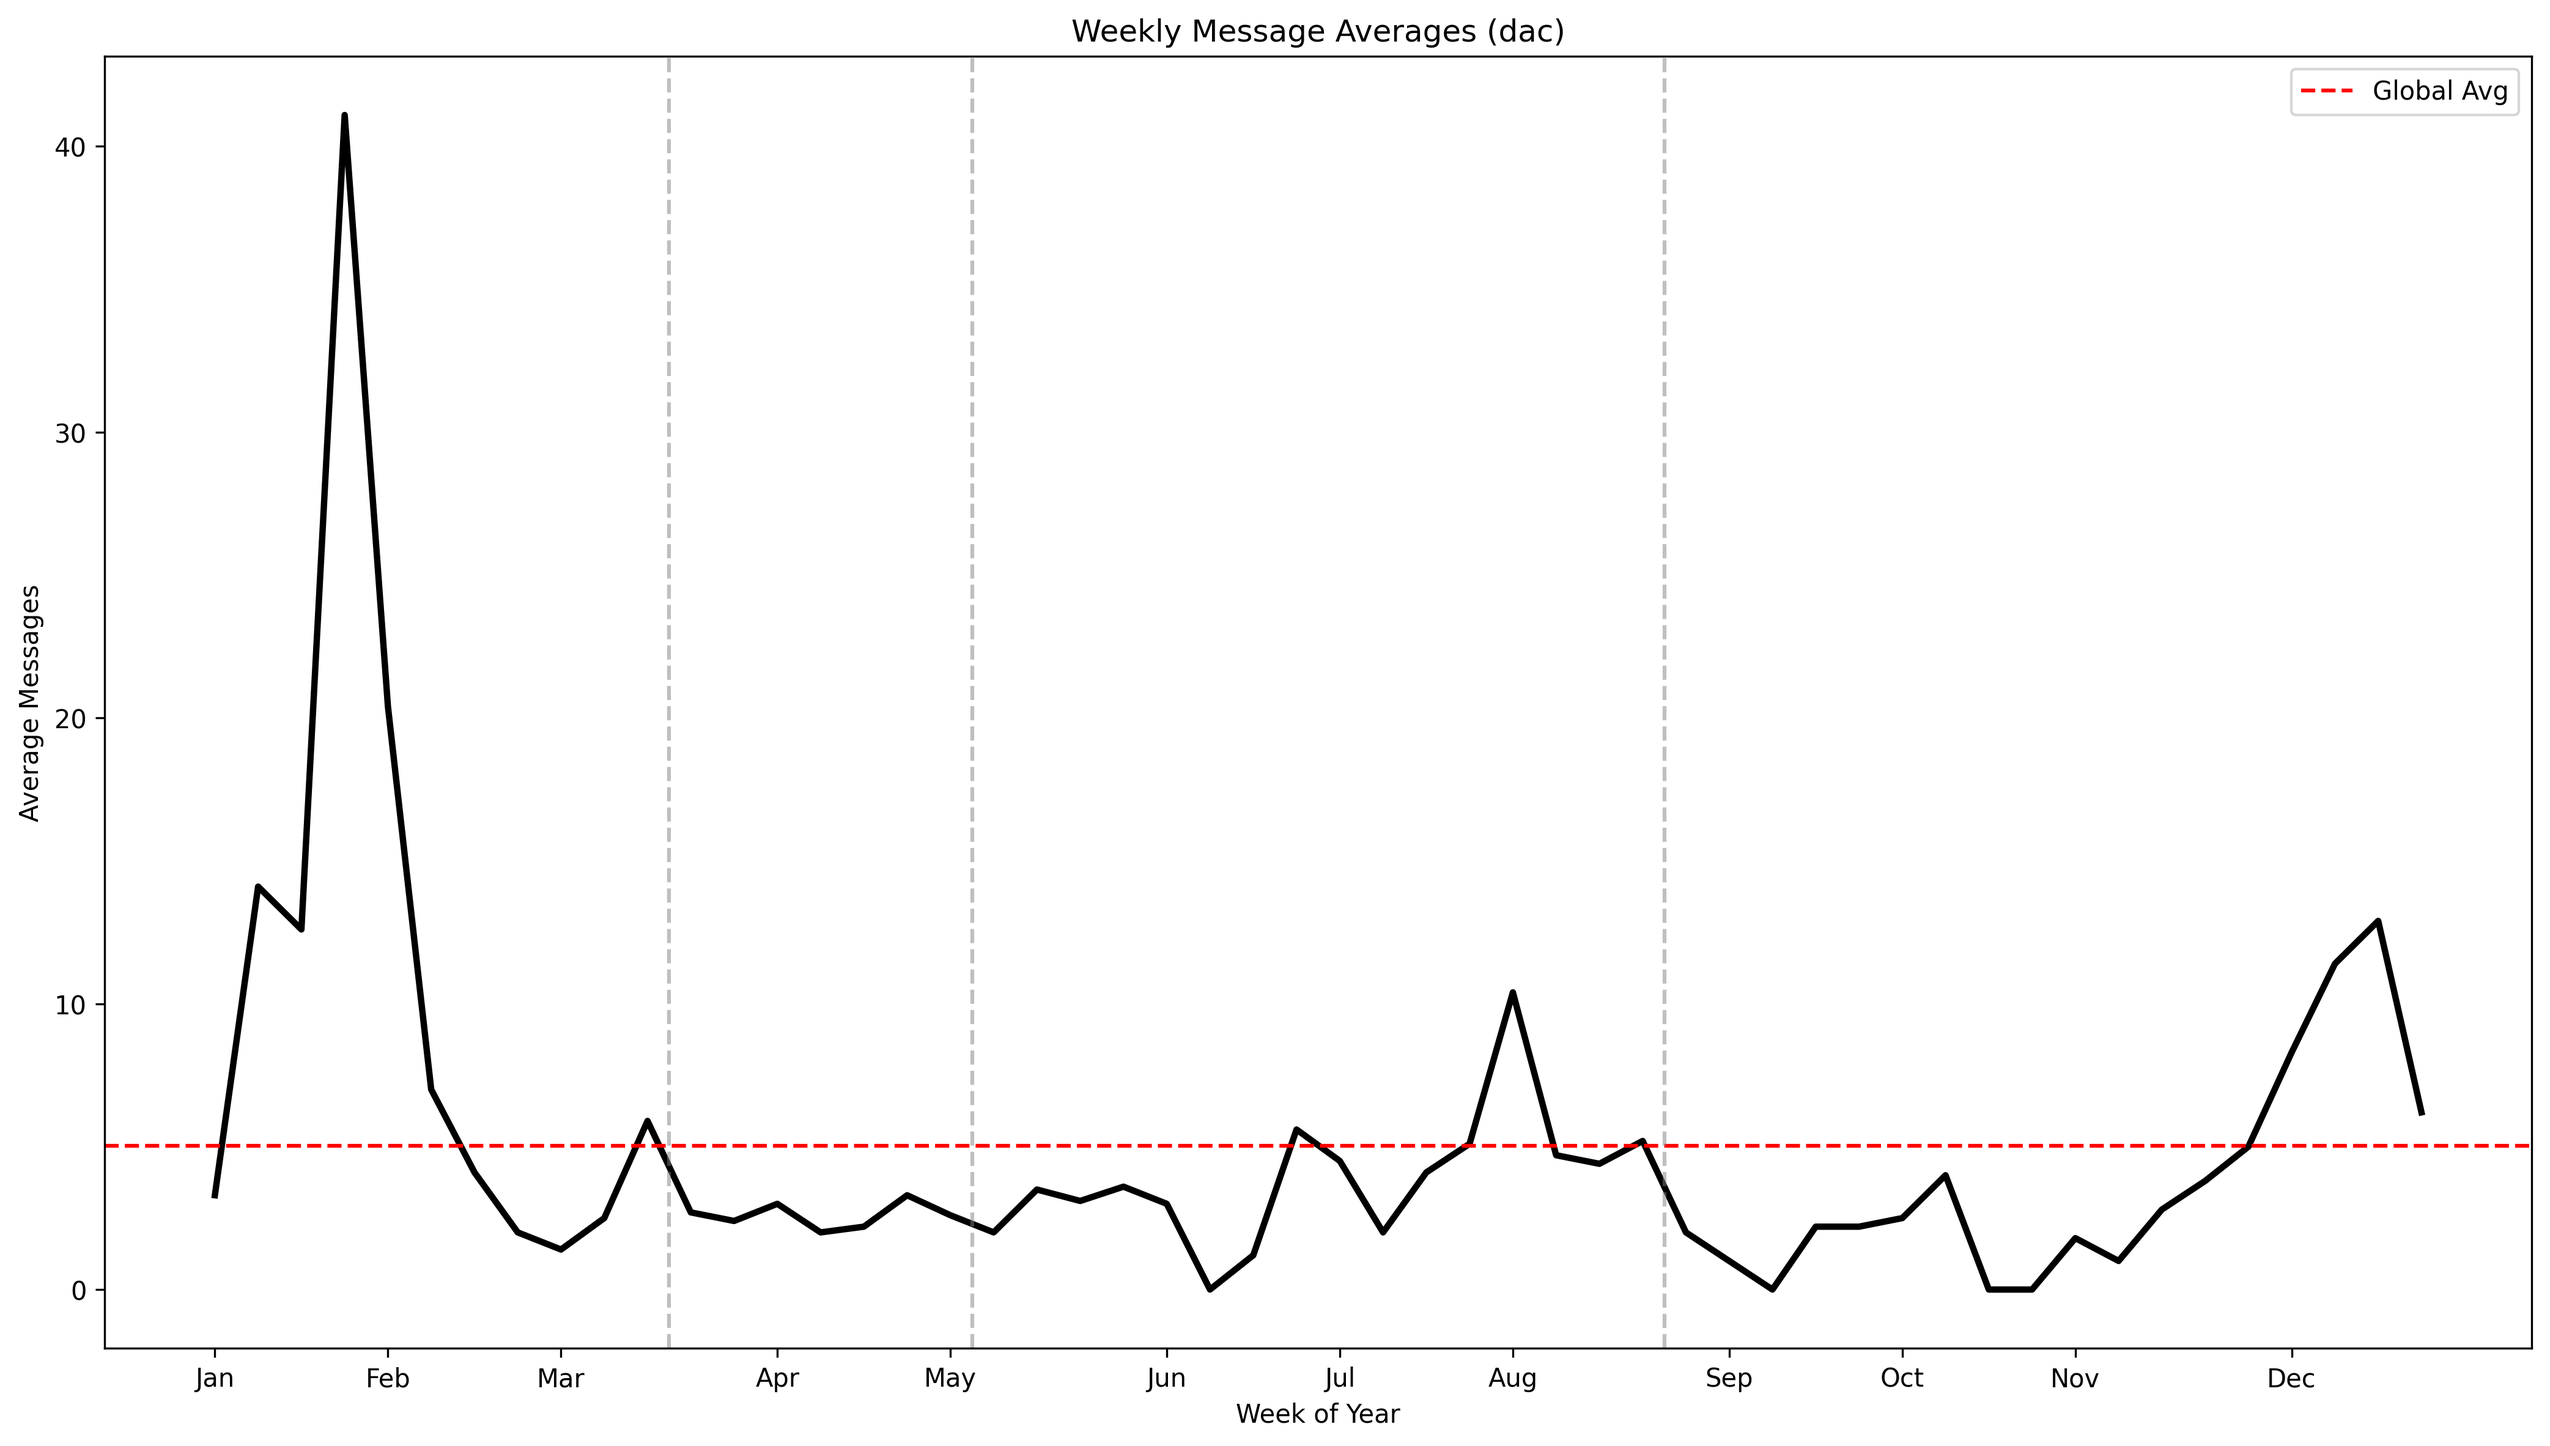
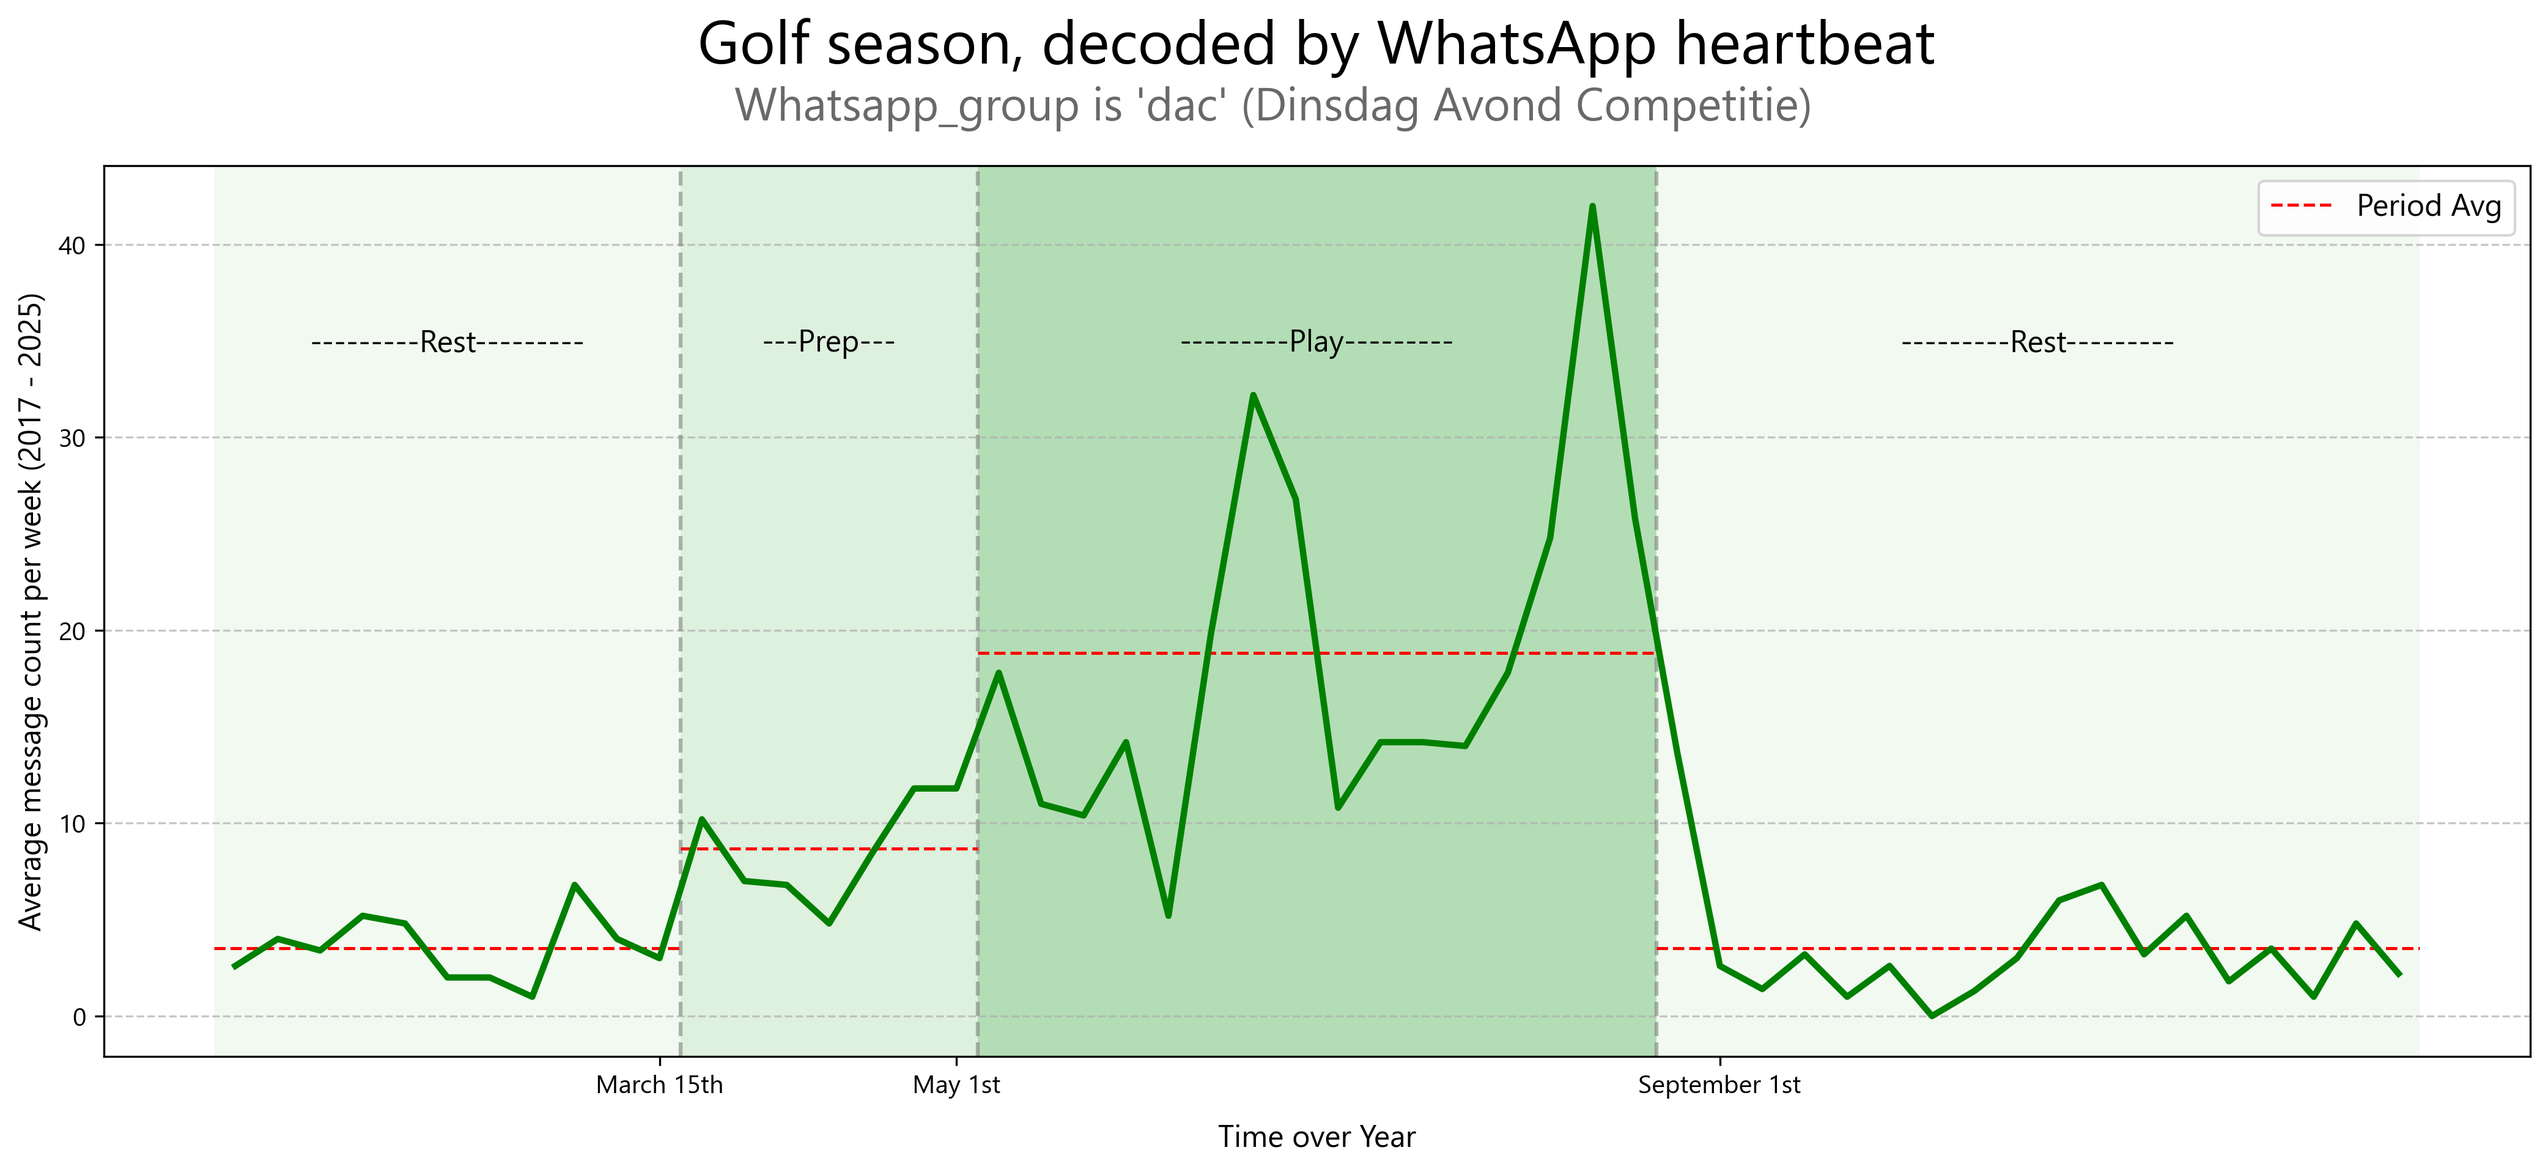
Plots Category and Time complete!

diff --git a/src/plot_manager.py b/src/plot_manager.py
@@ -52,31 +52,47 @@ class PlotSettings(BaseModel):
 
 # === 1. Categories Plot Settings (Script1) ===
 class CategoriesPlotSettings(PlotSettings):
+    title: str = "Anthony's participation is significantly lower for the 3rd group"
+    subtitle: str = "Too much to handle or too much crap?"
+    ylabel: str = Columns.MESSAGE_COUNT.human
     group_spacing: float = Field(2.5, ge=0.5, le=5.0)
     bar_width: float = Field(0.8, ge=0.1, le=1.0)
     trendline_color: str = "red"
     trendline_style: str = "--"
     trendline_width: float = 2.5
-    title: str = "Anthony's participation is significantly lower for the 3rd group"
-    subtitle: str = "Too much to handle or too much crap?"
-    ylabel: str = Columns.MESSAGE_COUNT.human
+
+    title_fontsize: int = 24
+    title_fontweight: str = "bold"
+    title_pad: float = 40
+    title_ha: str = "center"
+
+    subtitle_fontsize: int = 18
+    subtitle_fontweight: str = "bold"
+    subtitle_color: str = "dimgray"
+    subtitle_y: float = 0.85
+    subtitle_ha: str = "center"
 
 
 # === 2. Time Plot Settings (Script2) ===
 class TimePlotSettings(PlotSettings):
-    vline_weeks: list[float] = Field(default_factory=lambda: [11.5, 18.5, 34.5])
-    week_ticks: list[int] = Field(default_factory=lambda: [1, 5, 9, 14, 18, 23, 27, 31, 36, 40, 44, 49])
-    month_labels: list[str] = Field(
-        default_factory=lambda: [
-            "Jan", "Feb", "Mar", "Apr", "May", "Jun",
-            "Jul", "Aug", "Sep", "Oct", "Nov", "Dec"
-        ]
-    )
+    title: str = "Golf season, decoded by WhatsApp heartbeat"
+    subtitle: str = "Whatsapp_group is 'dac' (Dinsdag Avond Competitie)"
     rest_label: str = "---------Rest---------"
     prep_label: str = "---Prep---"
     play_label: str = "---------Play---------"
-    line_color: str = "black"
+    line_color: str = "green"
     linewidth: float = 2.5
+
+    title_fontsize: int = 24
+    title_fontweight: str = "bold"
+    title_pad: float = 40
+    title_ha: str = "center"
+
+    subtitle_fontsize: int = 18
+    subtitle_fontweight: str = "bold"
+    subtitle_color: str = "dimgray"
+    #subtitle_y: float = 0.80
+    subtitle_ha: str = "center"
 
 
 # === 3. Distribution Plot Settings (Script3) ===
@@ -171,7 +187,6 @@ class PlotManager:
         try:
             fig, ax = plt.subplots(figsize=(14, 6.5))  # Shorter canvas
             plt.subplots_adjust(top=0.65)              # Axes end earlier → more room above
-            fig.tight_layout(pad=4.0)                  # Push everything out, including titles
 
             # Define group colors
             group_colors = {
@@ -228,17 +243,6 @@ class PlotManager:
                 mid = start_x + (n_auth - 1) / 2
                 group_midpoints.append(mid)
                 cur_x += settings.group_spacing
-
-            # # Draw bars
-            # ax.bar(
-            #     x_pos,
-            #     heights,
-            #     width=settings.bar_width,
-            #     color=bar_colors,
-            #     edgecolor="black",
-            #     linewidth=1.3,
-            #     align="center",
-            # )
 
             # Draw bars with special edge for AvT
             edgecolors = []
@@ -302,20 +306,42 @@ class PlotManager:
                     zorder=6,
                 )
 
+            #Title and subtitle
             ax.set_title(
-                "Anthony's participation is significantly lower for the 3rd group",
-                fontsize=24,
-                fontweight="bold",
-                pad=40,        # NEW: Push title UP into the new space
-                ha="center",
+                settings.title,
+                fontsize=settings.title_fontsize,
+                fontweight=settings.title_fontweight,
+                pad=settings.title_pad,
+                ha=settings.title_ha,
             )
-            fig.suptitle(
-                "Too much to handle or too much crap?",
-                fontsize=18,
-                fontweight="bold",
-                color="dimgray",
-                y=0.85,        # NEW: Position in the new top space
-                ha="center",
+
+            # fig.suptitle(
+            #     settings.title,
+            #     fontsize=settings.title_fontsize,
+            #     fontweight=settings.title_fontweight,
+            #     y=0.98,
+            #     ha=settings.title_ha,
+            # )
+
+            # fig.suptitle(
+            #     settings.subtitle,
+            #     fontsize=settings.subtitle_fontsize,
+            #     fontweight=settings.subtitle_fontweight,
+            #     color=settings.subtitle_color,
+            #     y=settings.subtitle_y,
+            #     ha=settings.subtitle_ha,
+            # )
+
+            fig.text(
+                x=0.5,                       # ← X position (required)
+                y=0.92,
+                s=settings.subtitle,         # ← TEXT to display (required)
+                fontsize=settings.subtitle_fontsize,
+                fontweight=settings.subtitle_fontweight,
+                color=settings.subtitle_color,
+                ha=settings.subtitle_ha,
+                va="top",                    # ← Recommended
+                transform=fig.transFigure    # ← Critical for figure-level
             )
 
             # Axis labels
@@ -375,37 +401,132 @@ class PlotManager:
             matplotlib Figure or None
         """
         try:
-            fig, ax = plt.subplots(figsize=settings.figsize)
+            # Figure setup aligned with Categories
+            fig, ax = plt.subplots(figsize=(14, 6.5))  # Shorter canvas
+            plt.subplots_adjust(top=0.85)              # Axes end earlier → more room above
 
-            weeks = list(data.weekly_avg.keys())
-            avg_counts = list(data.weekly_avg.values())
+            # Sorted weeks and values
+            weeks = sorted(data.weekly_avg.keys())
+            avg_counts = [data.weekly_avg[w] for w in weeks]
 
+            # Main line: weekly average
             ax.plot(
                 weeks,
                 avg_counts,
                 color=settings.line_color,
                 linewidth=settings.linewidth,
+                zorder=6,
             )
 
-            ax.axhline(
-                data.global_avg,
-                color="red",
-                linestyle="--",
-                label="Global Avg",
+            # Period boundaries (hardcoded)
+            vlines = [11.5, 18.5, 34.5]
+            starts = [1] + [int(v + 0.5) for v in vlines]
+            ends   = [int(v + 0.5) - 1 for v in vlines] + [52]
+
+            # Period labels and colors
+            period_labels = [
+                settings.rest_label,
+                settings.prep_label,
+                settings.play_label,
+                settings.rest_label,
+            ]
+            period_colors = ["#e8f5e9", "#c8e6c9", "#81c784", "#e8f5e9"]
+
+            # Helper
+            def period_avg(start: int, end: int) -> float:
+                vals = [data.weekly_avg.get(w, 0.0) for w in range(start, end + 1)]
+                return float(np.mean(vals)) if vals else 0.0
+
+            # Draw periods
+            period_avg_patch = None
+            y_min, y_max = ax.get_ylim()
+            label_y = y_min + 0.80 * (y_max - y_min)
+
+            for i in range(4):
+                s, e = starts[i], ends[i]
+                ax.axvspan(s - 0.5, e + 0.5, facecolor=period_colors[i], alpha=0.6, zorder=0)
+
+                p_avg = period_avg(s, e)
+                if p_avg > 0:
+                    line = ax.hlines(
+                        p_avg,
+                        xmin=s - 0.5,
+                        xmax=e + 0.5,
+                        color="red",
+                        linestyle="--",
+                        linewidth=1.2,
+                        zorder=4,
+                        label="Period Avg" if period_avg_patch is None else "",
+                    )
+                    if period_avg_patch is None:
+                        period_avg_patch = line
+
+                mid = (s + e) / 2
+                ax.text(
+                    mid,
+                    label_y,
+                    period_labels[i],
+                    ha="center",
+                    va="center",
+                    fontsize=12,
+                    color="black",
+                    fontweight="bold",
+                    zorder=7,
+                )
+
+            # Vertical separators
+            for v in vlines:
+                ax.axvline(v, color="gray", linestyle="--", alpha=0.6, zorder=1)
+
+            # X-axis
+            key_dates = {11: "March 15th", 18: "May 1st", 36: "September 1st"}
+            ax.set_xticks(sorted(key_dates.keys()))
+            ax.set_xticklabels([key_dates[w] for w in sorted(key_dates)], fontsize=10, ha="center")
+            ax.set_xlabel("Time over Year", fontsize=12, labelpad=10)
+
+            # Title and subtitle
+            # fig.suptitle(
+            #     settings.title,
+            #     fontsize=settings.title_fontsize,
+            #     fontweight=settings.title_fontweight,
+            #     y=0.98,
+            #     ha=settings.title_ha,
+            # )
+
+            ax.set_title(
+                settings.title,
+                fontsize=settings.title_fontsize,
+                fontweight=settings.title_fontweight,
+                pad=settings.title_pad,
+                ha=settings.title_ha,
             )
 
-            for vline in settings.vline_weeks:
-                ax.axvline(vline, color="gray", linestyle="--", alpha=0.5)
+            fig.text(
+                x=0.5,                       # ← X position (required)
+                y=0.92,
+                s=settings.subtitle,         # ← TEXT to display (required)
+                fontsize=settings.subtitle_fontsize,
+                fontweight=settings.subtitle_fontweight,
+                color=settings.subtitle_color,
+                ha=settings.subtitle_ha,
+                va="top",                    # ← Recommended
+                transform=fig.transFigure    # ← Critical for figure-level
+            )
 
-            ax.set_xticks(settings.week_ticks)
-            ax.set_xticklabels(settings.month_labels, rotation=0)
+            # Y-label
+            ax.set_ylabel("Average message count per week (2017 - 2025)", fontsize=12)
 
-            ax.set_title(settings.title or f"Weekly Message Averages ({Groups.DAC})")
-            ax.set_xlabel(settings.xlabel or "Week of Year")
-            ax.set_ylabel(settings.ylabel or "Average Messages")
+            # Legend
+            if period_avg_patch:
+                ax.legend(handles=[period_avg_patch], loc="upper right", fontsize=12)
 
-            ax.legend()
+            # Grid
+            ax.grid(True, axis="y", linestyle="--", alpha=0.7, zorder=0)
+            ax.set_axisbelow(True)
             plt.tight_layout()
+            plt.show()
+
+            logger.success("Time plot built – aligned with Categories")
             return fig
 
         except Exception as e:
@@ -486,8 +607,8 @@ class PlotManager:
             lines1, labels1 = ax.get_legend_handles_labels()
             lines2, labels2 = ax2.get_legend_handles_labels()
             ax.legend(lines1 + lines2, labels1 + labels2, loc="upper left")
-
             plt.tight_layout()
+            plt.show()
             logger.success("Distribution plot built successfully")
             return fig
 

diff --git a/src/main.py b/src/main.py
@@ -11,7 +11,7 @@ from src.scripts.pipeline import Pipeline
 # Only include scripts you want to execute.
 # SCRIPT_6_DETAILS is only applicable if Script6 is included in SCRIPTS.
 # See script6.py for full configuration details.
-SCRIPTS = [1]
+SCRIPTS = [1,2]
 SCRIPT_6_DETAILS = ["tsne", True, True, False, True, 1]  # Only used if 6 in SCRIPTS | by_group, draw_ellipses, use_emb, hybrid, model_id
 
 
